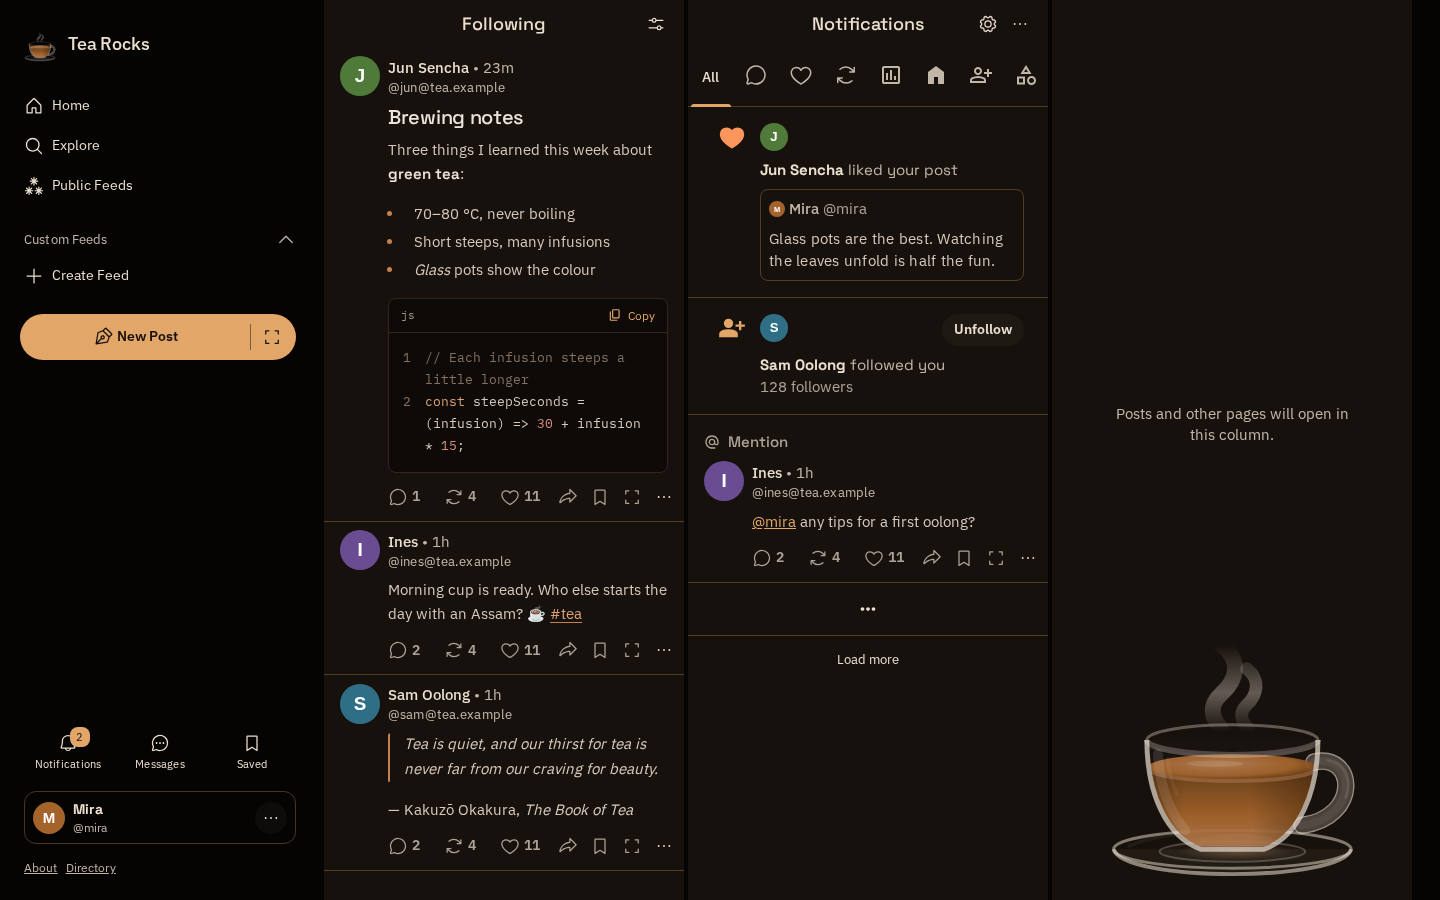
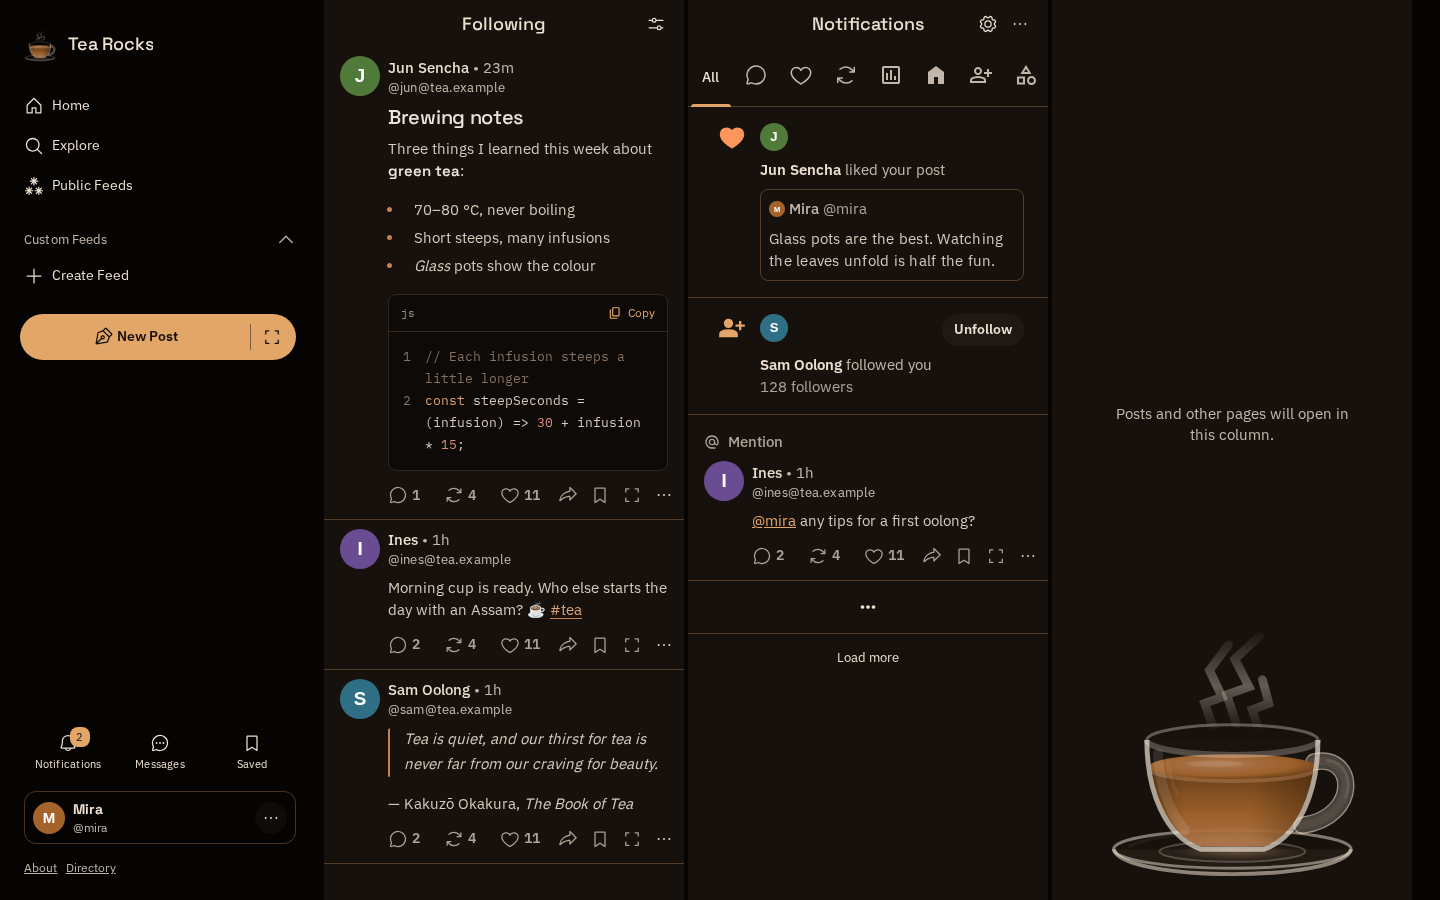
Update README for the new Hibiscus look

diff --git a/README.md b/README.md
@@ -29,7 +29,7 @@ The Teadeck host supplies the JavaScript running in your browser, and that code 
 
 ### Layouts and designs
 
-Mastodon's single- and multi-column layouts, with six designs of Teadeck's own and Mastodon's design to choose from. Hibiscus goes further than the others: square shapes, condensed capitals and outlined buttons. Layout, design and language are set per account under **Settings** in the account menu.
+Mastodon's single- and multi-column layouts, with six designs of Teadeck's own and Mastodon's design to choose from. Hibiscus goes further than the others: chamfered corners, condensed capitals, borderless cards on spaced columns, bolder icons and a fine grain. Layout, design and language are set per account under **Settings** in the account menu.
 
 ![The six designs: Assam, Sencha and Hibiscus, each dark and light](docs/images/themes.png)
 
